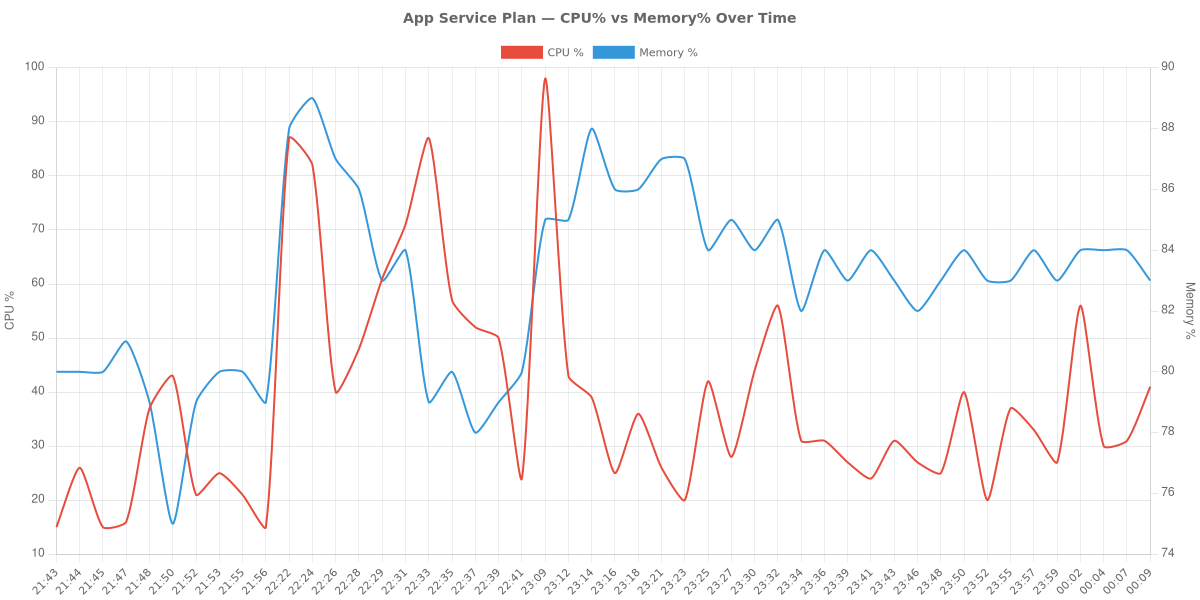
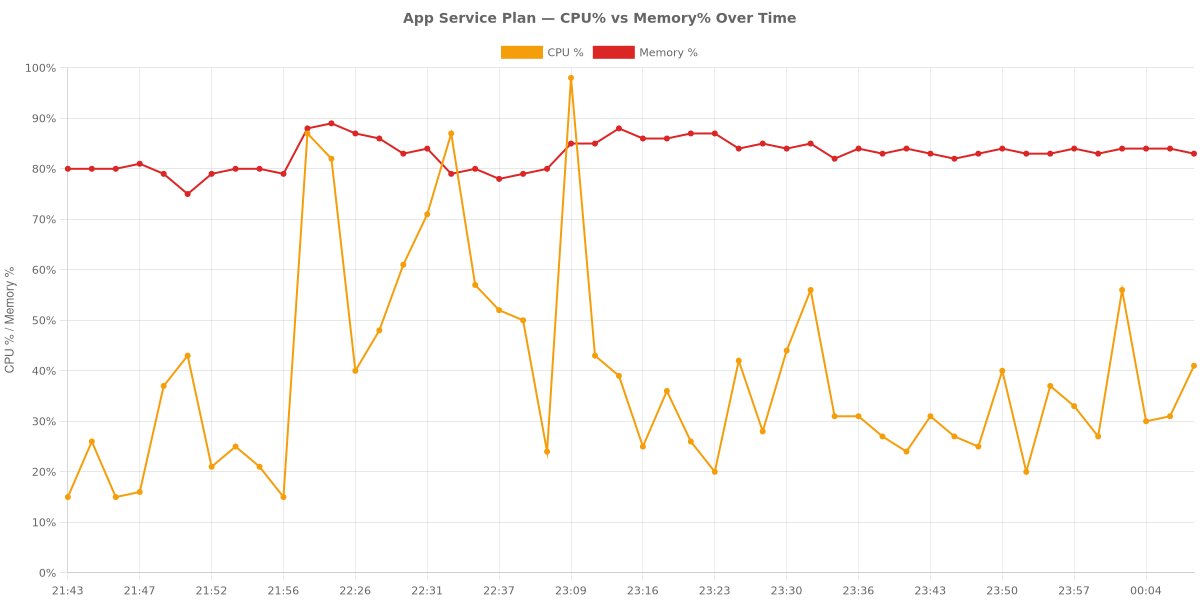
Unify chart colors and axes: shared 0-100% scale, consistent CPU/Memory colors, detailed figure captions
- cpu-memory-timeline: replace dual auto-scaled axes with single shared 0-100% scale
- Unify colors across charts: CPU=#f59e0b (orange), Memory=#dc2626 (red)
- Set tension:0 on cpu-memory-timeline to match traffic chart (no smoothing)
- Add descriptive captions for all 12 figures in EN and KO docs

diff --git a/docs/experiment-log.md b/docs/experiment-log.md
@@ -72,22 +72,22 @@ Deployed 2 Node.js applications (50MB RSS each). Verified that the `/diag/proc` 
 ### Visualizations (ZIP Deploy)
 
 ![CPU and Memory Timeline](assets/charts/zip-deploy/cpu-memory-timeline.png)
-*Figure 1: CPU vs Memory correlation during ZIP deployment phases.*
+*Figure 1: App Service Plan CPU% (orange) and Memory% (red) on a shared 0-100% scale. Both metrics rise together as apps are scaled up, with CPU climbing from ~15% to 47% while memory reaches 92%.*
 
 ![Kernel Reclaim Activity](assets/charts/zip-deploy/kernel-reclaim-timeline.png)
-*Figure 2: Escalation of pgscan_kswapd and pgscan_direct counters.*
+*Figure 2: Linux kernel page reclaim counters (Δ per interval). Sharp escalation of pgscan_kswapd and pgscan_direct confirms the kernel was actively reclaiming pages under memory pressure.*
 
 ![Swap Activity](assets/charts/zip-deploy/swap-activity-timeline.png)
-*Figure 3: Intense pswpin/pswpout activity as swap nears exhaustion.*
+*Figure 3: Swap I/O activity (Δ per interval). Intense pswpin/pswpout spikes correlate with high memory phases, confirming swap thrashing as the kernel moves pages between RAM and disk.*
 
 ![Memory Breakdown](assets/charts/zip-deploy/memory-breakdown-timeline.png)
-*Figure 4: Breakdown of MemAvailable, Cached, and SwapFree.*
+*Figure 4: OS-level memory breakdown from /proc/meminfo. Shows MemFree, MemAvailable, Cached, and SwapFree declining as app memory allocation increases.*
 
 ![App RSS](assets/charts/zip-deploy/app-rss-timeline.png)
-*Figure 5: Per-app memory footprint over time.*
+*Figure 5: Per-app resident set size (RSS) in MB. Each app's memory footprint grows as ALLOC_MB is increased across phases.*
 
 ![Burst Latency Distribution](assets/charts/zip-deploy/burst-latency-distribution.png)
-*Figure 6: Burst traffic latency histogram.*
+*Figure 6: Latency histogram during Phase 3 traffic burst (10 RPS × 60s). Shows request latency distribution under memory pressure.*
 
 ![Traffic Volume vs CPU vs Memory](assets/charts/zip-deploy/traffic-cpu-timeline.png)
 *Figure 7: Memory pressure experiment — ZIP deploy. Request rate remained essentially flat (~6 RPM) throughout all phases, while memory utilization climbed from ~80% to ~92% and CPU increased from ~15% to 35%+ in tandem — confirming the CPU rise was driven by memory pressure, not traffic.*
@@ -136,16 +136,16 @@ An attempt to run 6 containers at 100MB each caused complete plan destabilizatio
 ### Visualizations (Container Deploy)
 
 ![CPU and Memory Timeline](assets/charts/container-deploy/cpu-memory-timeline.png)
-*Figure 8: CPU and Memory trends for containerized applications.*
+*Figure 8: App Service Plan CPU% (orange) and Memory% (red) for container deploy on a shared 0-100% scale. Memory remains ~75-82% while CPU spikes to 84% during container scaling events (Phase 2a), then stabilizes at 10-24%.*
 
 ![Kernel Reclaim Activity](assets/charts/container-deploy/kernel-reclaim-timeline.png)
-*Figure 9: Reclaim activity in the container environment.*
+*Figure 9: Kernel page reclaim activity in the container environment. pgscan_kswapd and pgscan_direct counters show moderate reclaim compared to ZIP deploy.*
 
 ![Swap Activity](assets/charts/container-deploy/swap-activity-timeline.png)
-*Figure 10: Swap activity during container experiments.*
+*Figure 10: Swap I/O during container experiment. Lower intensity than ZIP deploy due to container isolation limiting swap utilization to ~49%.*
 
 ![Burst Latency Distribution](assets/charts/container-deploy/burst-latency-distribution.png)
-*Figure 11: High latency variance observed during container traffic bursts.*
+*Figure 11: Latency histogram during container Phase 3 burst. Higher variance (avg 174ms vs 17ms for ZIP) shows containers are more sensitive to memory pressure.*
 
 ![Traffic Volume vs CPU vs Memory](assets/charts/container-deploy/traffic-cpu-timeline.png)
 *Figure 12: Memory pressure experiment — container deploy. Request rate remained consistently low (~12 RPM) while memory held steady at ~80% and CPU fluctuated between 10-51% during pressure phases. Note: metric cadence is sparser than ZIP deploy (~2 min intervals).*
